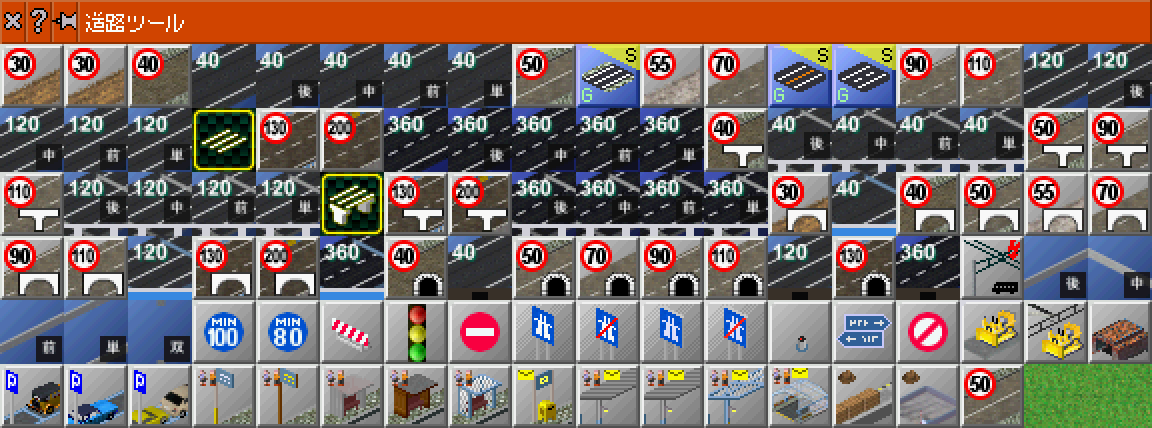
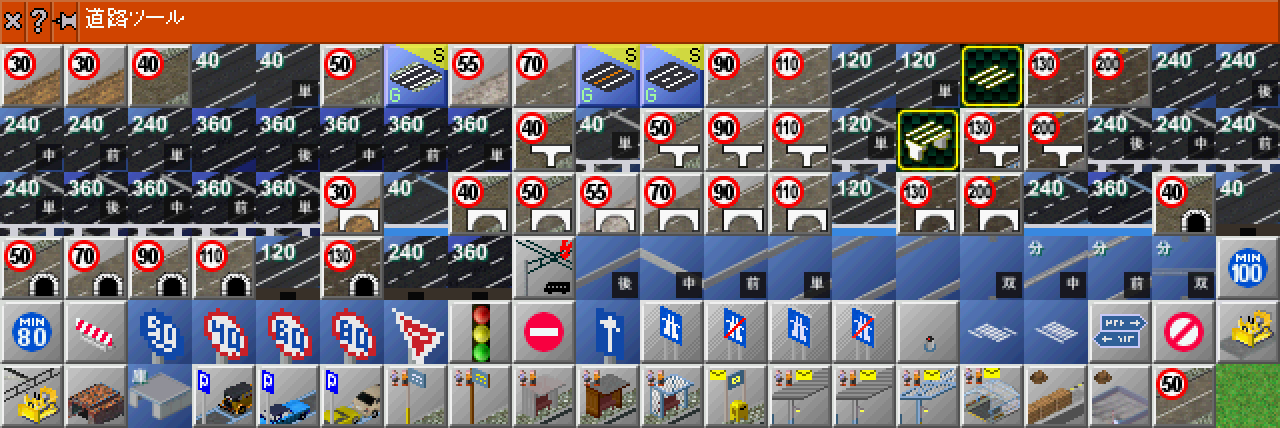
ami: address review of the single-only road variants (#260)
- icons: version label for the curve walls, refresh the road menu/cursor docs
- README/ACCEPTANCE: single-only roads, curve walls in the name tables
- curve_sample: check the wall names at the ring corners
- way-addon.md: per-shape curve walls, _beyond_prisms for L and arc

diff --git a/addons/ami/blender/icons.py b/addons/ami/blender/icons.py
@@ -98,7 +98,7 @@ MARK_PICTURE = {"ami_mark_lane4": "image[ns][0]", "ami_mark_junction2": "image[n
 def describe(d):
     """dat から、アイコンの決まりに使う中身を取る"""
     name, obj = d["name"], d["obj"]
-    m = re.search(r"_(single|back|center|front|twin)(_catenary|_divider|_pole)?$", name)
+    m = re.search(r"_(single|back|center|front|twin)(_arc|_ell)?(_catenary|_divider|_pole)?$", name)
     info = dict(name=name, version=m.group(1) if m else None, speed=None, struct=None, label=None,
                 old=catalog.is_old(name))  # old: 旧描画位置（SIS に合う。#26）の物。アイコンの左下に「旧」
     if name.startswith(("ami_tram", "ami_embankment", "ami_mark_")):  # 盛土・路面表示は tram_track の way（路面軌道の道具の一覧に出る）

diff --git a/docs/reference/way-addon.md b/docs/reference/way-addon.md
@@ -143,6 +143,8 @@
 - 高速道路の橋: 線路の橋と同じセルの並びと dat のキーで作れる。手本の iss の都市高速の橋は床の縁が青い桁だが、基盤の側面を青くしても壁の真下に隠れ、ゲームではほとんど見えない（桁を壁の外へ出す必要がある）
 - 壁を way-object に分けた道路の行き止まり（2026-11-19、AMI の道路の高架で確認）: way の絵の白線をタイルの辺まで引くと、白線の端が、別に描いた端の壁の下の縁から 1px 出て明るい点に見える。壁を焼き込む版は壁の外側を削る型で消えるが、分けた版は way の絵に壁が無いので消えない。白線は端の壁の内側の面（経路の始点）で止める
 - 道路の壁と基盤の版（2026-11-19、AMI で確認）: 地上の道路は路面がタイルいっぱいなので、直線・T字・十字・坂・1 本の斜めは、通常の版に壁の way-object を重ねるだけで合う。合わないのは 2 つ。複線の直角の曲がりでは、通常の版のカーブ（斜めの絵をタイルの半分で切ったもの。#259 で一般・生活道路の通常の版は円弧・L 字になり、出なくなった。高速道路は今も斜め）の間に草の三角が出る。近い斜めでは、通常の版が近い斜めの絵を持つので分け合うタイルが way 1 本になり、壁が十字の絵になる（10 章）。どちらも、近い斜めの絵を持たず、カーブを斜めの形の別のセルに描いて壁の無い側をタイルの端まで延ばした基盤の版（iss の `iss_wrg_0120_*` と同じ持ち方）で直る。高架の複線の直角の曲がりも、カーブを斜めのセルのままにすると三角の穴が開く
+- way-object のカーブはカーブの形ごとに 1 つ要る（2026-11-25、AMI の #260。ゲームで確認）: way-object は 1 タイルに 1 つで、カーブのセル（`image[sw]` など）も 1 つしか持てない。斜めのカーブの壁を、円弧・L 字の way（基盤の版）に重ねると、壁が路面の外へずれる。形の違う way ごとに、カーブのセルだけが違う壁を持たせる（AMI の `ami_wall_road_single_arc`・`_ell`。直線・T字・十字・坂は同じ絵）
+- 基盤・路面の外側を削る型（`sheetlib/assemble.py` の `_beyond_prisms`。2026-11-25、AMI の #260。道路の基盤 single を描き直して確認）: 経路の点が 3 つの L 字（`MiterPath`）は、2 本の直線として削る（始点と終点を結ぶ斜めの線で削ると、タイルの半分が消える）。円弧（点が 5 つ以上）の外側の型は、4 個の大きな柱にまとめる（64 個の薄い柱を 1 つずつ抜くと、路面が扇形に欠け、白線の脇に透明な細いすき間が出る）
 - 高速道路の橋の桁（2026-11-19、AMI で確認）: 基盤とその下の桁を青くし、壁の外の面まで出す（躯体のように内へ下げない）と、壁の下に約 4px の帯で見える。iss の `iss_br_0120_bridge1` の帯も 4px
 - 高速道路のトンネル: 手本の iss の都市高速の坑口は、線路の坑口と同じタイルいっぱいの箱に、口の上の名板を付けたもの。穴は両側の壁の内側まで広げる
 - 線路の汚れ（色だけの薄い帯。2026-11-15、`blender-poc` で確認）: レールの周りの汚れは走行面（レールと同じ基準面）に乗せる。新描画位置では走行面が路盤より約 2px 手前にずれるので、

diff --git a/addons/ami/ACCEPTANCE.md b/addons/ami/ACCEPTANCE.md
@@ -32,6 +32,7 @@ AMI の初版を「できた」と言うための条件。blender-poc の [ACCEP
 - 消えた物（14）: `ami_road_general_lane1`〜`7`・`ami_road_expressway_lane1`〜`7`（路面表示の版。#187 で路面軌道の景観の way に置き換えた）
 - 増えた物（19）: 路面表示 `ami_mark_*`（交差点・多車線・6 車線・高速道路の分岐と合流。#187・#188・#189）、`ami_sign_crosswalk`・`ami_sign_crosswalk_one_way`（#162）、`ami_canal_scenic`（#161）
 - 見た目の変更: 汚しと精細化（#197）、景観の運河（新規）の斜めと行き止まり（#217）、メニューのアイコン・カーソルのずれの直し（#229。タイルの見た目は変わらない）
+- 第 4 弾（#260）: 一般道路・生活道路の基盤・高架は `single` だけになる（`back`・`center`・`front` の 12 個が消える）。下の表の「基盤 4 版・高架 4 版」の道路の分は、幹線道路・高速道路だけを指す
 - 配る形: 種類別の 7 本の zip と、旧描画位置の別の zip（beta.2 と同じ。[記録](../../docs/records/2026-11-24_ami-beta3-release.md)）
 
 ## 1. 全種類に共通
